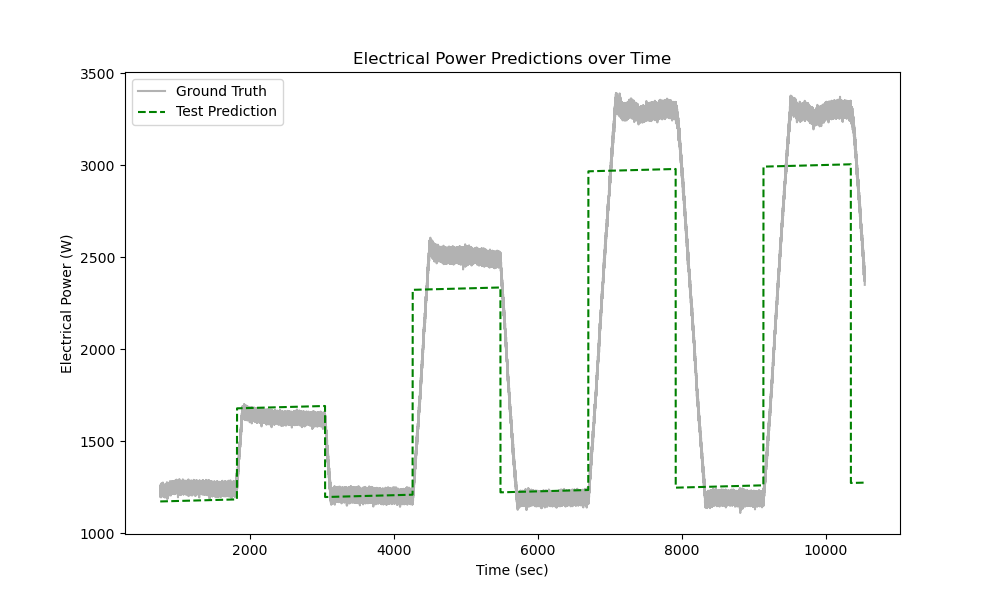
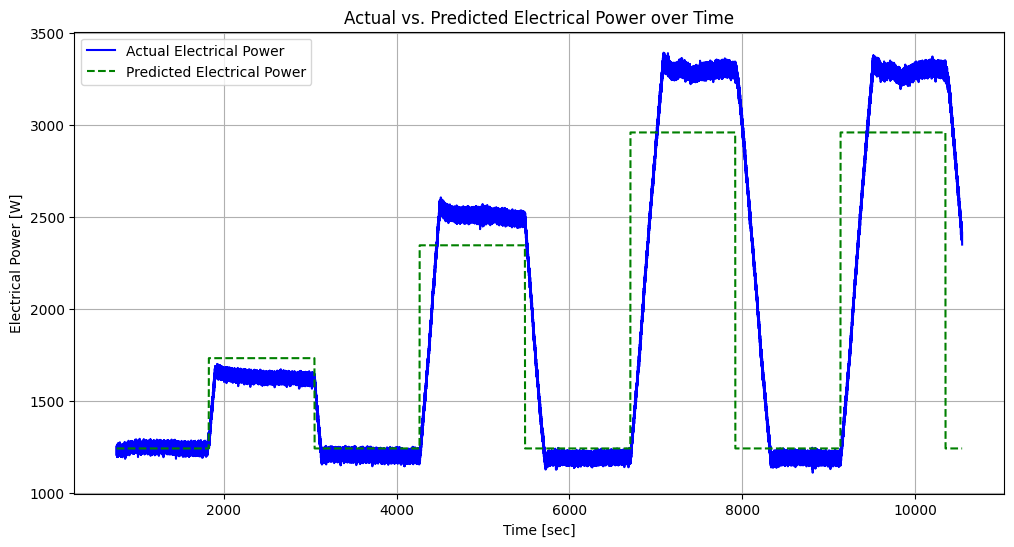
project improvements

diff --git a/ML/GasTurbineConsumption/src/models/regression.py b/ML/GasTurbineConsumption/src/models/regression.py
@@ -1,72 +1,78 @@
 import pandas as pd
-import numpy as np
 from sklearn.linear_model import LinearRegression
-from sklearn.metrics import mean_squared_error
+from sklearn.metrics import mean_squared_error, r2_score
 import matplotlib.pyplot as plt
+import numpy as np
 from sklearn.model_selection import learning_curve
 import seaborn as sns
 
 file_paths = [
-    'ML\\GasTurbineConsumption\\data\\train\\ex_9.csv',
-    'ML\\GasTurbineConsumption\\data\\train\\ex_20.csv',
-    'ML\\GasTurbineConsumption\\data\\train\\ex_21.csv',
-    'ML\\GasTurbineConsumption\\data\\train\\ex_1.csv',
-    'ML\\GasTurbineConsumption\\data\\train\\ex_23.csv',
-    'ML\\GasTurbineConsumption\\data\\train\\ex_24.csv'
+    'ML\\GasTurbineConsumption\\data\\train\\train_1.csv',
+    'ML\\GasTurbineConsumption\\data\\train\\train_2.csv',
+    'ML\\GasTurbineConsumption\\data\\train\\train_3.csv',
+    'ML\\GasTurbineConsumption\\data\\train\\train_4.csv',
+    'ML\\GasTurbineConsumption\\data\\train\\train_5.csv',
+    'ML\\GasTurbineConsumption\\data\\train\\train_6.csv',
+    'ML\\GasTurbineConsumption\\data\\test\\test_1.csv'
 ]
 
-dfs = [pd.read_csv(file) for file in file_paths]
+train_dfs = [pd.read_csv(file) for file in file_paths]
+train_df = pd.concat(train_dfs, ignore_index=True)
 
-training_data = pd.concat(dfs, ignore_index=True)
-X_train = training_data[['time', 'input_voltage']]
-y_train = training_data['el_power']
+test_df = pd.read_csv('ML\\GasTurbineConsumption\\data\\test\\test_1.csv')
+
+X_train = train_df[['input_voltage']]
+y_train = train_df['el_power']
+
+X_test = test_df[['input_voltage']]
+y_test = test_df['el_power']
 
 model = LinearRegression()
 
 model.fit(X_train, y_train)
 
-test_file_paths = [
-    'ML\\GasTurbineConsumption\\data\\test\\ex_4.csv'
-]
-
-test_dfs = [pd.read_csv(file) for file in test_file_paths]
-
-test_data = pd.concat(test_dfs, ignore_index=True)
-
-X_test = test_data[['time', 'input_voltage']]
-y_test = test_data['el_power']
-
 y_pred = model.predict(X_test)
 
 mse = mean_squared_error(y_test, y_pred)
-print("Mean Squared Error on Test Data:", mse)
+r2 = r2_score(y_test, y_pred)
+print(f'Mean Squared Error: {mse}')
+print(f'R^2 Score: {r2}')
 
-train_sizes, train_scores, val_scores = learning_curve(
-    model, X_train, y_train, cv=5, scoring='neg_mean_squared_error', 
+# Error distribution with KDE curve
+errors = y_test - y_pred
+plt.figure(figsize=(12, 6))
+sns.histplot(errors, bins=30, kde=True, color='blue')
+plt.xlabel('Prediction Error [W]')
+plt.ylabel('Frequency')
+plt.title('Distribution of Prediction Errors')
+plt.grid(True)
+plt.show()
+
+# Learning curves
+train_sizes, train_scores, test_scores = learning_curve(
+    model, X_train, y_train, cv=5, scoring='neg_mean_squared_error',
     train_sizes=np.linspace(0.1, 1.0, 10)
 )
 
 train_scores_mean = -train_scores.mean(axis=1)
-val_scores_mean = -val_scores.mean(axis=1)
+test_scores_mean = -test_scores.mean(axis=1)
 
-plt.plot(train_sizes, train_scores_mean, 'o-', color='blue', label='Training error')
-plt.plot(train_sizes, val_scores_mean, 'o-', color='red', label='Validation error')
-plt.xlabel('Training Size')
+plt.figure(figsize=(12, 6))
+plt.plot(train_sizes, train_scores_mean, 'o-', color='blue', label='Training Error')
+plt.plot(train_sizes, test_scores_mean, 'o-', color='red', label='Validation Error')
+plt.xlabel('Training Set Size')
 plt.ylabel('Mean Squared Error')
 plt.title('Learning Curves')
-plt.legend(loc='best')
-plt.show()
-
-sns.histplot(y_pred - y_test, kde=True, bins=30)
-plt.xlabel('Prediction Error')
-plt.title('Error Distribution')
-plt.show()
-
-plt.figure(figsize=(10, 6))
-plt.plot(test_data['time'], y_test, label='Ground Truth', color='gray', alpha=0.6)
-plt.plot(test_data['time'], y_pred, label='Test Prediction', color='green', linestyle='--')
-plt.xlabel('Time (sec)')
-plt.ylabel('Electrical Power (W)')
-plt.title('Electrical Power Predictions over Time')
 plt.legend()
+plt.grid(True)
+plt.show()
+
+plt.figure(figsize=(12, 6))
+plt.plot(test_df['time'], y_test, color='blue', label='Actual Electrical Power')
+plt.plot(test_df['time'], y_pred, color='green', linestyle='--', label='Predicted Electrical Power')
+plt.xlabel('Time [sec]')
+plt.ylabel('Electrical Power [W]')
+plt.title('Actual vs. Predicted Electrical Power over Time')
+plt.legend()
+plt.grid(True)
 plt.show()

diff --git a/ML/GasTurbineConsumption/src/analysis/analysis.py b/ML/GasTurbineConsumption/src/analysis/analysis.py
@@ -1,0 +1,24 @@
+import pandas as pd
+import matplotlib.pyplot as plt
+
+test_df = pd.read_csv('ML\\GasTurbineConsumption\\data\\test\\test_1.csv')
+
+# Input Voltage vs. Time
+plt.figure(figsize=(12, 6))
+plt.plot(test_df['time'], test_df['input_voltage'], color='blue', label='Input Voltage')
+plt.xlabel('Time [sec]')
+plt.ylabel('Input Voltage [V]')
+plt.title('Input Voltage vs. Time')
+plt.legend()
+plt.grid(True)
+plt.show()
+
+# Electrical Power vs. Time
+plt.figure(figsize=(12, 6))
+plt.plot(test_df['time'], test_df['el_power'], color='green', label='Electrical Power')
+plt.xlabel('Time [sec]')
+plt.ylabel('Electrical Power [W]')
+plt.title('Electrical Power vs. Time')
+plt.legend()
+plt.grid(True)
+plt.show()

diff --git a/ML/GasTurbineConsumption/src/processing/processing.py b/ML/GasTurbineConsumption/src/processing/processing.py
@@ -1,0 +1,18 @@
+import pandas as pd
+
+file_paths = [
+    'ML\\GasTurbineConsumption\\data\\train\\train_1.csv',
+    'ML\\GasTurbineConsumption\\data\\train\\train_2.csv',
+    'ML\\GasTurbineConsumption\\data\\train\\train_3.csv',
+    'ML\\GasTurbineConsumption\\data\\train\\train_4.csv',
+    'ML\\GasTurbineConsumption\\data\\train\\train_5.csv',
+    'ML\\GasTurbineConsumption\\data\\train\\train_6.csv',
+    'ML\\GasTurbineConsumption\\data\\test\\test_1.csv'
+]
+
+train_dfs = [pd.read_csv(file) for file in file_paths[:6]]
+train_df = pd.concat(train_dfs, ignore_index=True)
+
+test_df = pd.read_csv(file_paths[6])
+
+print(train_df.head())

diff --git a/ML/GasTurbineConsumption/README.md b/ML/GasTurbineConsumption/README.md
@@ -4,30 +4,57 @@ Micro gas turbine energy consumption<br><br>
 ## Info
 Using data from an experiment done using a micro gas turbine, the idea's to predict its energy usage. This model can then help inform decisions on the tooling itself, as its performance can be emulated virtually via a predictive ML model, so it can be tested on a different environment and the results of that test can be treated as being reasonably accurate, depending on model performance on emulating its true behavior.<br>
 
-Ideally more machinery or tooling can be more accurately simulated, to help inform decisions on their use, and drive business decisions. NVDIA seems to want to venture into simulation via ML as well (https://developer.nvidia.com/blog/develop-physics-informed-machine-learning-models-with-graph-neural-networks/), which personally I admire a lot, and am trying to eventually get similar work done in that area too, starting with application of ML to real-world tooling or infrastructure processes through my understanding of it.<br><br>
+#### Micro gas turbine:<br><br>
+<img src="reports/figures/micro_gas_turbine.jpg" alt="micro gas turbine" width="590"/><br><br>
+*Figure 1* - Micro gas turbine illustration.<br><br>
+
+Ideally more machinery or tooling can be more accurately simulated, to help inform decisions on their use, and drive business decisions. NVDIA seems to venture into simulation leveraging the power of machine learning as well (https://developer.nvidia.com/blog/develop-physics-informed-machine-learning-models-with-graph-neural-networks/), which personally I admire a lot and am trying to eventually get similar work done in the same area as well, starting with the applying ML to real-world systems and processes through my understanding of the field.<br><br>
+
+#### Input voltage vs time:<br><br>
+<img src="reports/figures/input_voltage_time.png" alt="micro gas turbine" width="590"/><br><br>
+*Figure 2* - Input voltage vs time plot.<br><br>
+
+#### Electrical power vs time:<br><br>
+<img src="reports/figures/electrical_power_time.png" alt="micro gas turbine" width="590"/><br><br>
+*Figure 3* - Input voltage vs time plot.<br><br>
+
+The paper the data's based on asserts that the relationship between input voltage and electrical power is not one-to-one, but rather time-dependent and dynamic, meaning that the electrical power output is influenced by the input voltage, but it also exhibits temporal dynamics such as transitions and stationary phases, leading to the difference in geometric profiles.<br>
+By analyzing these plots, one may determine a correlation between the input voltage and electrical power, or whether the relationship is more complex and involves time-dependent dynamics. However, the models developed will focus more on the power consumed by the turbine to attempt to accurately emulate its behavior.<br><br>
 
 ### Models
 * Regression<br><br>
 
 ### Performance
-* The learning curves show that, although the error increases with training size, it does eventually plateu and goes down slightly
-    * Will need to implement model optimization techniques to help lower error
-* The error distribution is centered around zero, which is good, but should ideally be symmetrical around zero as well
+* The learning curves show that a steady validation error but an erratic training error, indicating sub-optimized model
+    * Will need to implement model optimization techniques to ensure consistent and low error
+* Error distribution is centered around zero, which is good, but should ideally be symmetrical around zero as well (is slightly left skewed)
 
 ### Regression
 #### Learning curve:
-<img src="reports/figures/learning_curves.png" alt="learning curves" width="550"/><br><br>
+<img src="reports/figures/learning_curves.png" alt="learning curves" width="550"/><br>
+*Figure 4* - Learning curve plot.<br><br>
 
 #### Error distribution:
-<img src="reports/figures/error_distribution.png" alt="error distribution" width="550"/><br><br>
+<img src="reports/figures/error_distribution.png" alt="error distribution" width="550"/><br>
+*Figure 5* - Prediction error distribution.<br><br>
+
+```
+Mean Squared Error: 236800.6401296233
+R^2 Score: 0.647773511404588
+
+```
+<br>
 
 ### Application
 Using the test sets:<br>
 
-<img src="reports/figures/power_consumption_prediction_1.png" alt="power consumption prediction 1" width="600"/><br><br>
+#### Prediction on set 1:
+<img src="reports/figures/power_consumption_prediction_1.png" alt="power consumption prediction 1" width="600"/><br>
+*Figure 6* - Predicted electrical power on test_1 dataset.<br><br>
 
-<img src="reports/figures/power_consumption_prediction_2.png" alt="power consumption prediction 2" width="600"/><br><br>
-
+#### Prediction on set 2:
+<img src="reports/figures/power_consumption_prediction_2.png" alt="power consumption prediction 2" width="600"/><br>
+*Figure 7* - Predicted electrical power on test_2 dataset.<br><br>
 
 It does well for both test sets, as predicted consumption curve is close to measured curve using for both.<br><br>
 
@@ -39,6 +66,10 @@ It does well for both test sets, as predicted consumption curve is close to meas
 https://colab.research.google.com/drive/1wD2YNJqh0A_YSL2IvcBuuTxrqtdLeyrE#scrollTo=y0Sa7Ikcbe0F<br><br>
 
 ## References
+Capstone Microturbines.<br>
+
+Link: https://www.linkedin.com/pulse/what-capstone-microturbines-rafael-sanchez/<br><br>
+
 Knowledge-Guided Learning of Temporal Dynamics and its Application to Gas Turbines.<br>
 By Pawel Bielski, Aleksandr Eismont, Jakob Bach, Florian Leiser, Dustin Kottonau, and Klemens Böhm. 2024
 

diff --git a/ML/BuildingEnergyEfficiency/README.md b/ML/BuildingEnergyEfficiency/README.md
@@ -6,18 +6,20 @@ To address the problem of energy performance of buildings (EPB) due to growing c
 
 The computation of the heating load (HL) and the cooling load (CL) is required to determine the specifications of the heating and cooling equipment needed to maintain comfortable indoor air conditions, and in applying machine learning capabilities, this computational work can be done in a way that promotes data-driven insights into building design, and may produce value in increased building energy efficiency through reducing time and resources it may take to conduct necessary computations or simulations for determining better building efficiencies.<br><br>
 
-#### Thermal computation illustration:<br><br>
-<img src="reports/figures/building_simulation_thermal_comfort.jpg" alt="building simulation thermal comfort" width="550"/><br><br>
+#### Thermal computation:<br><br>
+<img src="reports/figures/building_simulation_thermal_comfort.jpg" alt="building simulation thermal comfort" width="590"/><br>
+*Figure 1* - Illustration of heating & cooling computation via computational fluid dynamic simulation of building.<br><br>
 
 So, using building heating and cooling data, the idea's to predict the heating and cooling needs of a building, to gauge means of improving efficiency.<br><br>
 
 #### Correlation heatmap:<br><br>
-<img src="reports/figures/correlation_heatmap.png" alt="correlation heatmap" width="550"/><br><br>
+<img src="reports/figures/correlation_heatmap.png" alt="correlation heatmap" width="550"/><br>
+*Figure 2* - Correlation heatmap of dateset variables.<br><br>
 
 Highly correlated value are closest to 1, and are more red, and less correlated are more blue and closer to -1. This informs key aspects of model selection, including feature selection, where features having high correlation with heating and cooling load target variables, are good candidates to be included in the model as they are most likely to have a significant impact on prediction.<br><br>
 
 #### Boxplots:<br><br>
-<img src="reports/figures/boxplots.png" alt="boxplots" width="550"/><br><br>
+<img src="reports/figures/boxplots.png" alt="boxplots" width="550"/><br><br>*Figure 3* - Boxplot of dateset variables.<br><br>
 
 Variables such as overall height, orientation, glazing area and so on are very tightly compact and have small ranges, indicating low variance in their data, whereas surface area, wall area, and roof area have higher values and larger ranges, indicating a higher variance in the dataset. Linear regression models are sensitive to variance, so this plot helps to inform decisions in feature selection.<br><br>
 
@@ -34,7 +36,10 @@ Variables such as overall height, orientation, glazing area and so on are very t
 ### Classification
 #### Confusion matrices:
 <img src="reports/figures/heat_load_confusion_matrix.png" alt="heat load confusion matrix" width="600"/><br><br>
+*Figure 4* - Heating load classification confusion matrix.<br><br>
+
 <img src="reports/figures/cooling_load_confusion_matrix.png" alt="cooling load confusion matrix" width="600"/><br><br>
+*Figure 5* - Cooling load classification confusion matrix.<br><br>
 
 
 #### Scores:<br><br>
@@ -73,8 +78,10 @@ Cooling Load Classification Accuracy: 96.75%
 ### Regression
 #### Actual vs Prediction:<br><br>
 <img src="reports/figures/heating_load_prediction.png" alt="heating load prediction" width="650" height="350"/><br><br>
-<img src="reports/figures/cooling_load_prediction.png" alt="cooling load prediction" width="650" height="350"/><br><br>
+*Figure 5* - Actual vs predicted heating load plot.<br><br>
 
+<img src="reports/figures/cooling_load_prediction.png" alt="cooling load prediction" width="650" height="350"/><br><br>
+*Figure 6* - Actual vs predicted cooling load plot.<br><br>
 
 #### Evaluation metrics:<br><br>
 ```
@@ -135,8 +142,8 @@ Predictions for Cooling Load:
 https://colab.research.google.com/drive/1Jd-zffd6wJn10naXk3p-ssDY1vl7RN_h<br><br>
 
 ## References
-The 3 Biggest Trends in Building Simulation.<br>
-By SimScale<br>
+The 3 Biggest Trends in Building Simulation.<br><br>
+By SimScale<br><br>
 Link: https://www.simscale.com/blog/building-simulation/<br><br>
 
 Accurate quantitative estimation of energy performance of residential buildings using statistical machine learning tools.<br>

diff --git a/DataAnalytics/README.md b/DataAnalytics/README.md
@@ -8,4 +8,4 @@
 * [Top item profitability](https://github.com/JeffM-Code/PortfolioWork/blob/main/DataAnalytics/project_reports/item_profitability.pdf)<br><br>
     * Assessment on highly profitable items to recommend most profitable item to stakeholder.<br><br>
 
-Data was queried from BigQuery on a 400M+ row datasets.<br><br>
+Data was queried from BigQuery on 400M+ row datasets.<br><br>
